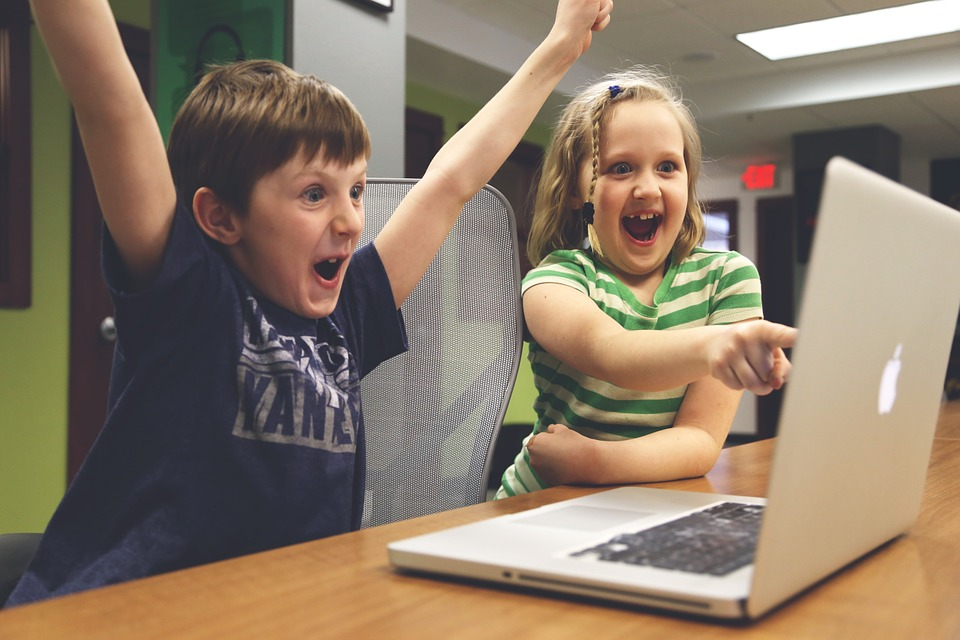
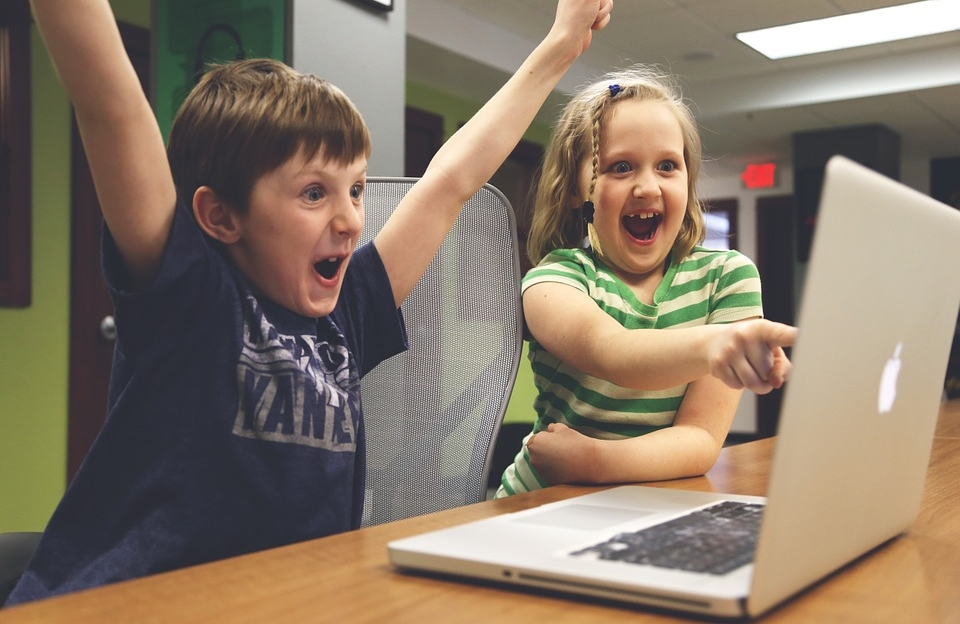
Add classes & fees

diff --git a/index.html b/index.html
@@ -53,7 +53,10 @@
                         <li>
                             <a class="page-scroll" href="#services">What</a>
                         </li>
-                          <li>
+                        <li>
+                                <a class="page-scroll" href="#classes">How</a>
+                            </li>
+                        <li>
                             <a class="page-scroll" href="#team">Who</a>
                         </li>
                         <li>
@@ -195,34 +198,58 @@
                     <div class="col-lg-4 col-md-6 text-center">
                         <div class="service-box">
                             <i class="fa fa-4x fa-bolt wow bounceIn text-primary" data-wow-delay=".2s"></i>
-                           
                             <h3>Inspire</h3>
-                            <p class="text-muted">Kids as young as 5 years of age are found to be quite capable of understading the underlying logic of a computer programme. We use visual teaching tools based on popular games like angry birds to teach little kids, the basics of computational thinking. We are also big believers in the effects of the wow factor.</p>
+                            <button class="btn btn-primary">7-9 year olds</button>
+                            <br/><br/>
+                            <p class="text-muted" >Designed for children in year 2 and above. We use visual teaching tools based on popular disney movies and cartoon characters to teach little kids, the basics of computational thinking.</p>
+                            <p class="text-muted">Kids will learn basic programming concepts and how to break down problems in to manageable pieces.</p>
                         </div>
                     </div>
                     <div class="col-lg-4 col-md-6 text-center">
                         <div class="service-box">
                             <i class="fa fa-4x fa-pagelines wow bounceIn text-primary" data-wow-delay=".2s"></i>
                             <h3>Upskill</h3>
-                            <p class="text-muted">Young kids in primary school who can read well or early stages of high school, can be gradually exposed to real world programming languages and techniques. We pay more attention to tailoring these sessions based on individual kids needs, depending on the interest and previous exposure of each kid.</p>
+
+                            <button class="btn btn-primary">10 years and over</button>
+                            <br/><br/>
+                            <p class="text-muted">Targetted for children who has a fair grasp of mathematical concepts and language skills. They may or may not have a bit of previous programming experience. 
+                            <p class="text-muted"> They will be gradually exposed to real world programming languages and techniques. They will solve harder and more practical problems.</p>
+                        </p>    
                         </div>
                     </div>
                     <div class="col-lg-4 col-md-6 text-center">
                         <div class="service-box">
                             <i class="fa fa-4x fa-magic wow bounceIn text-primary" data-wow-delay=".3s"></i>
                             <h3>Master</h3>
-                            <p class="text-muted">This programme is designed for young kids who already has a passion for computers and coding and want to expand their horizons in the ever changing world of computer programming. We will start working on their existing skills and gradually inject with critical knowledge shaping them in to real programming super stars.</p>
+                            <button class="btn btn-primary">Any age</button>
+                            <br/><br/>
+                            <p class="text-muted">This programme is designed for any one who already has a passion for computers and coding and want to expand their horizons in the ever changing world of computer programming. </p>
+                                    <p class="text-muted">    We will start working on their existing skills and gradually inject with critical knowledge shaping them in to real programming super stars.</p>
                         </div>
                     </div>
                 </div>
             </div>
+        </section>
+        <section class="bg-primary" id="classes">
+                <div class="container">
+                        <div class="row">
+                                <div class="col-lg-12 text-center">
+                                    <h2 class="section-heading">Classes &amp; Fees</h2>
+                                    <hr class="light">
+                                    <p>Classes are conducted once per week. A date will be decided according to your needs after registration.</p>
+                                    <p>Each class runs for 1 hour. No more than 6 students per class</p>
+                                    <p>Fees are paid per term. A term runs for 10 weeks and priced at $250.</p>
+                                    <p>Try the first class for free and pay afterwards.</p>
+                                </div>
+                            </div>
+                </div>
         </section>
         <section class="no-padding" id="portfolio">
             <div class="container-fluid">
                 <div class="row no-gutter">
                     <div class="col-lg-4 col-sm-6">
                         <a href="#" class="portfolio-box">
-                        <img src="img/portfolio/2kidshappy.jpg" class="img-responsive" alt="">
+                        <img src="img/portfolio/2kidshappy2.jpg" class="img-responsive" alt="">
                         <div class="portfolio-box-caption">
                             <div class="portfolio-box-caption-content">
                                 <div class="project-category text-faded">
@@ -336,13 +363,13 @@
                 </div>
             </div>
         </section>
-
+       
         <section id="contact" class="bg-dark">
             <div class="container">
                 <div class="row">
                 <div class="col-lg-8 col-lg-offset-2 text-center">
                     <div class="contact-form">
-                        <h2 class="section-heading">Let's Get In Touch!</h2>
+                        <h2 class="section-heading">Register for Free!</h2>
                         <form role="form" class=".form-inline" id="contact-form" name="contact-form">
                             <div class="row" style="display:none" id="successMsg">
                                 <div class="col-lg-12">
